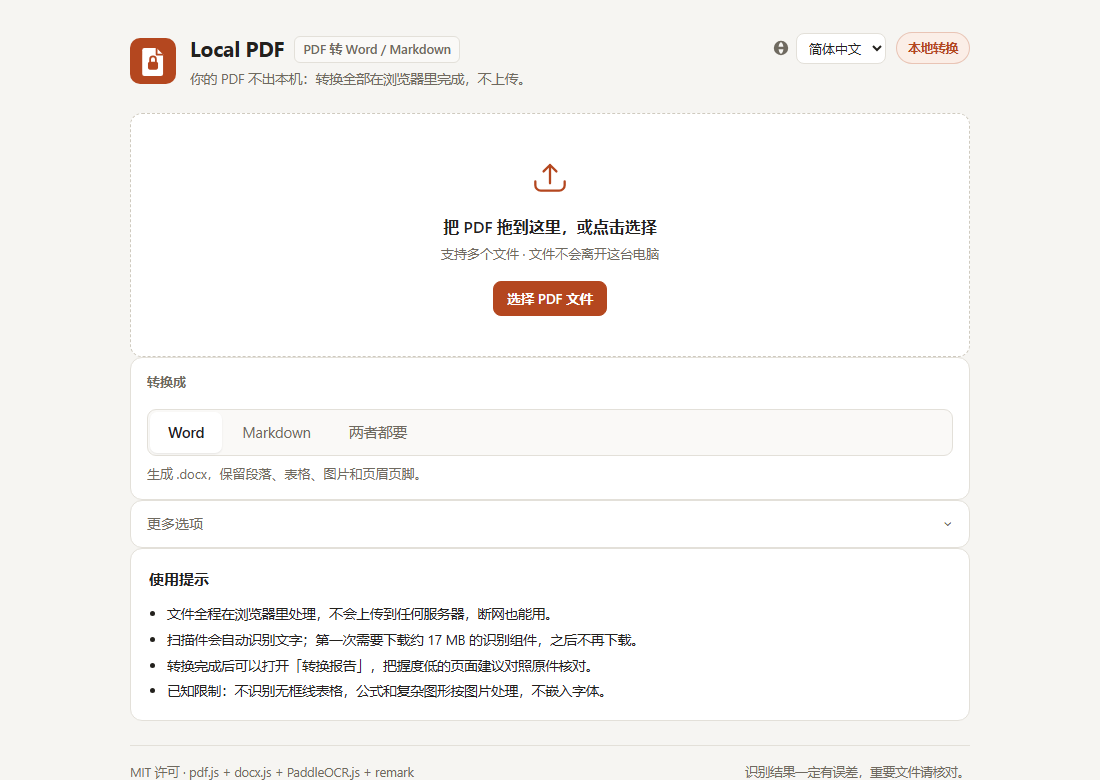
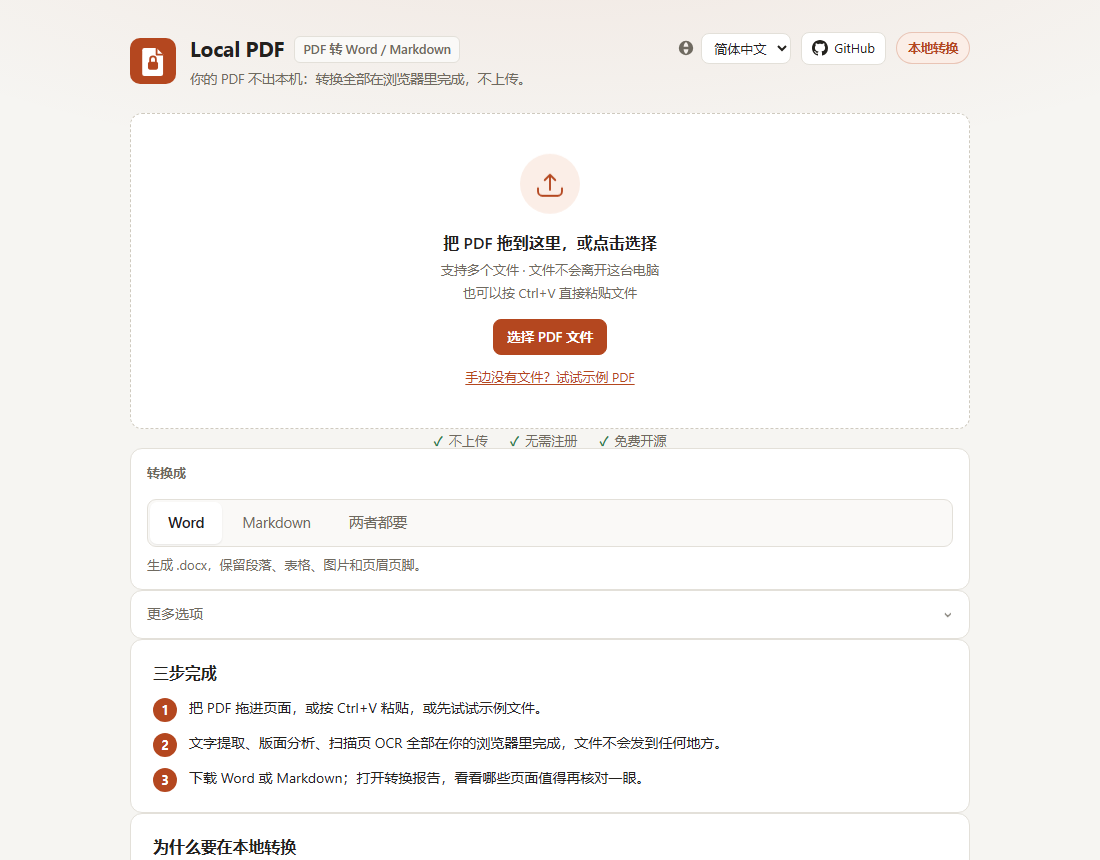
docs: README hero with selling points, social card, changelog for 0.1.0
- README (en / zh-CN): social card, one-line value proposition, badges,
  "Why Local PDF" selling points, updated screenshot.
- docs/social-card.png and public/og.png generated by scripts/make-social-card.py.
- CHANGELOG: everything before the first public release folded into 0.1.0.

diff --git a/scripts/make-social-card.py b/scripts/make-social-card.py
@@ -1,0 +1,79 @@
+# -*- coding: utf-8 -*-
+"""
+生成 1280×640 的社交分享卡：docs/social-card.png（README 顶图、GitHub 社交预览）和 public/og.png（网页 og:image）。
+依赖 PyMuPDF，只在本机生成时用，不是项目依赖。
+
+    python scripts/make-social-card.py
+"""
+import os
+import shutil
+
+import fitz
+
+ROOT = os.path.dirname(os.path.dirname(os.path.abspath(__file__)))
+OUT = os.path.join(ROOT, "docs", "social-card.png")
+OG = os.path.join(ROOT, "public", "og.png")
+
+W, H = 1280, 640
+BG = (0.965, 0.961, 0.949)
+ACCENT = (0.706, 0.278, 0.122)
+INK = (0.137, 0.129, 0.114)
+DIM = (0.435, 0.416, 0.376)
+OK = (0.184, 0.49, 0.31)
+
+
+def main():
+    doc = fitz.open()
+    page = doc.new_page(width=W, height=H)
+    page.draw_rect(fitz.Rect(0, 0, W, H), color=None, fill=BG)
+    # 顶部一抹暖色光晕，和网页背景一致
+    page.draw_rect(fitz.Rect(0, 0, W, 6), color=None, fill=ACCENT)
+
+    # 品牌标：圆角方块 + 白色页面 + 锁
+    x0, y0, s = 96, 150, 150
+    page.draw_rect(fitz.Rect(x0, y0, x0 + s, y0 + s), color=None, fill=ACCENT, radius=0.22)
+    k = s / 64
+    page.draw_polyline(
+        [(x0 + 20 * k, y0 + 14 * k), (x0 + 37 * k, y0 + 14 * k), (x0 + 46 * k, y0 + 23 * k),
+         (x0 + 46 * k, y0 + 50 * k), (x0 + 20 * k, y0 + 50 * k), (x0 + 20 * k, y0 + 14 * k)],
+        color=None, fill=(1, 1, 1), closePath=True,
+    )
+    page.draw_polyline([(x0 + 37 * k, y0 + 14 * k), (x0 + 37 * k, y0 + 23 * k), (x0 + 46 * k, y0 + 23 * k)],
+                       color=ACCENT, width=2.5 * k)
+    page.draw_rect(fitz.Rect(x0 + 25 * k, y0 + 33 * k, x0 + 39 * k, y0 + 44 * k), color=None, fill=ACCENT, radius=0.2)
+    page.draw_circle((x0 + 32 * k, y0 + 29.5 * k), 4 * k, color=ACCENT, width=2.5 * k)
+    page.draw_rect(fitz.Rect(x0 + 27 * k, y0 + 29.5 * k, x0 + 37 * k, y0 + 34 * k), color=None, fill=BG)
+    page.draw_rect(fitz.Rect(x0 + 25 * k, y0 + 33 * k, x0 + 39 * k, y0 + 44 * k), color=None, fill=ACCENT, radius=0.2)
+
+    tx = 292
+    page.insert_text((tx, 214), "Local PDF", fontname="hebo", fontsize=76, color=INK)
+    page.insert_text((tx, 268), "PDF to Word / Markdown, entirely in your browser",
+                     fontname="helv", fontsize=30, color=DIM)
+    # CJK 字体里的拉丁字母是全角宽度，中英混排要分段用不同字体
+    x = tx
+    # CJK 字体的空格是全角，段与段之间用固定间距代替空格
+    for run, font in [("纯前端", "china-s"), ("PDF", "helv"), ("转", "china-s"),
+                      ("Word / Markdown", "helv"), ("，文件不出本机", "china-s")]:
+        page.insert_text((x, 312), run, fontname=font, fontsize=26, color=DIM)
+        x += fitz.get_text_length(run, fontname=font, fontsize=26) + (0 if run.startswith("，") else 7)
+
+    y = 396
+    for i, label in enumerate(["Nothing uploaded", "No sign-up", "Free & open source"]):
+        cx = tx + i * 300
+        page.draw_circle((cx + 12, y - 9), 12, color=None, fill=OK)
+        page.draw_polyline([(cx + 6, y - 9), (cx + 10.5, y - 4.5), (cx + 18.5, y - 14)], color=(1, 1, 1), width=2.6)
+        page.insert_text((cx + 34, y), label, fontname="helv", fontsize=24, color=INK)
+
+    page.draw_line((96, 520), (W - 96, 520), color=(0.85, 0.84, 0.81), width=1)
+    page.insert_text((96, 572), "localpdfconverter.com", fontname="hebo", fontsize=28, color=ACCENT)
+    page.insert_text((W - 96 - 300, 572), "github.com/zkwi/local-pdf", fontname="helv", fontsize=22, color=DIM)
+
+    pix = page.get_pixmap(matrix=fitz.Matrix(1, 1), alpha=False)
+    os.makedirs(os.path.dirname(OUT), exist_ok=True)
+    pix.save(OUT)
+    shutil.copyfile(OUT, OG)
+    print(f"written {OUT} ({pix.width}x{pix.height}, {os.path.getsize(OUT) / 1024:.0f} KB) and public/og.png")
+
+
+if __name__ == "__main__":
+    main()

diff --git a/README.md b/README.md
@@ -1,11 +1,40 @@
-# Local PDF
+<p align="center">
+  <a href="https://localpdfconverter.com"><img src="docs/social-card.png" alt="Local PDF" width="720"></a>
+</p>
 
-**Convert PDF to Word and Markdown entirely in your browser. Private. Free. Open source.**
+<h1 align="center">Local PDF</h1>
 
-Your PDF stays local: parsing, OCR, layout analysis and file generation all run inside the browser.
-There is no upload endpoint in the code base at all.
+<p align="center">
+  <b>Convert PDF to Word and Markdown entirely in your browser.</b><br>
+  Nothing uploaded · No sign-up · Free &amp; open source
+</p>
 
-[简体中文](README.zh-CN.md) · Live: <https://localpdfconverter.com>
+<p align="center">
+  <a href="https://localpdfconverter.com"><b>Try it now →</b></a> ·
+  <a href="README.zh-CN.md">简体中文</a> ·
+  <a href="CHANGELOG.md">Changelog</a>
+</p>
+
+<p align="center">
+  <a href="https://github.com/zkwi/local-pdf/actions/workflows/ci.yml"><img src="https://github.com/zkwi/local-pdf/actions/workflows/ci.yml/badge.svg" alt="CI"></a>
+  <a href="LICENSE"><img src="https://img.shields.io/badge/license-MIT-b4471f.svg" alt="MIT"></a>
+  <img src="https://img.shields.io/badge/runs-100%25%20in%20your%20browser-2f7d4f.svg" alt="Runs 100% in your browser">
+</p>
+
+## Why Local PDF
+
+- **Private by construction.** There is no server to upload to. Parsing, layout analysis, OCR and file
+  generation all run inside the browser; you can confirm it in the network panel. Contracts, statements
+  and papers never leave your computer.
+- **Real Word documents, not pictures of pages.** Paragraphs, headings, lists, ruled tables with merged
+  cells, images, headers/footers and page-number fields are rebuilt so you can keep editing.
+- **Scanned PDFs just work.** Pages without a text layer are recognised with PaddleOCR (PP-OCRv6) in the
+  browser, per page, in Chinese, English, Japanese and 50+ other languages. Tall "long image" PDFs are handled too.
+- **Markdown as well.** The same recognition result can be exported as Markdown, zipped with images and a
+  manifest of coordinates and confidence.
+- **Honest about quality.** Every file comes with a conversion report: confidence per page, element counts,
+  and warnings that tell you which pages deserve a second look.
+- **No install, works offline.** Static site, four interface languages, model files cached after first use.
 
 ![Screenshot](docs/screenshot.png)
 
@@ -76,6 +105,9 @@ Worker serving `dist/` and binds the custom domain; Node 22 comes from `.node-ve
 headers and has the optional COOP/COEP lines for multi-threaded OCR commented out. Any other static host works the
 same way with `dist/` as the output directory.
 
+The site URL is hard-coded in a few SEO places: canonical/hreflang/Open Graph tags in `index.html`, `public/robots.txt`,
+`public/sitemap.xml` and `SITE_URL` in `src/ui/SeoContent.tsx`. Change them when hosting under another domain.
+
 ## Privacy
 
 - No upload code exists. Check the network panel: the only external requests are the optional OCR model and runtime downloads.
@@ -126,6 +158,8 @@ decisions in [docs/adr/](docs/adr/). Roadmap: [docs/ROADMAP.md](docs/ROADMAP.md)
   The PDF fixtures in `tests/fixtures/` are generated by `make_fixtures.py` (needs PyMuPDF locally; not a project dependency).
 - Adding a warning or progress message means adding it to all four tables in `src/i18n/messages/`; the type checker enforces it.
 - CI runs format check, typecheck, tests and build on every push.
+- `public/samples/demo.pdf` (the "try a sample" file) is generated by `scripts/make-demo-pdf.py`, which needs PyMuPDF locally.
+- `docs/social-card.png` / `public/og.png` come from `scripts/make-social-card.py` (also PyMuPDF).
 
 Issues and pull requests are welcome. Please keep changes small and focused; this is a personal project and
 simplicity is a feature.

diff --git a/README.zh-CN.md b/README.zh-CN.md
@@ -1,10 +1,34 @@
-# Local PDF
+<p align="center">
+  <a href="https://localpdfconverter.com"><img src="docs/social-card.png" alt="Local PDF" width="720"></a>
+</p>
 
-**在浏览器里把 PDF 转成 Word 和 Markdown。不上传，免费，开源。**
+<h1 align="center">Local PDF</h1>
 
-你的 PDF 不出本机：解析、OCR、版面分析、文件生成全部在浏览器里完成，代码里根本没有上传接口。
+<p align="center">
+  <b>在浏览器里把 PDF 转成 Word 和 Markdown。</b><br>
+  不上传 · 无需注册 · 免费开源
+</p>
 
-[English](README.md) · 在线版：<https://localpdfconverter.com>
+<p align="center">
+  <a href="https://localpdfconverter.com"><b>在线使用 →</b></a> ·
+  <a href="README.md">English</a> ·
+  <a href="CHANGELOG.md">更新日志</a>
+</p>
+
+<p align="center">
+  <a href="https://github.com/zkwi/local-pdf/actions/workflows/ci.yml"><img src="https://github.com/zkwi/local-pdf/actions/workflows/ci.yml/badge.svg" alt="CI"></a>
+  <a href="LICENSE"><img src="https://img.shields.io/badge/license-MIT-b4471f.svg" alt="MIT"></a>
+  <img src="https://img.shields.io/badge/%E5%85%A8%E7%A8%8B%E5%9C%A8%E6%B5%8F%E8%A7%88%E5%99%A8%E9%87%8C%E8%BF%90%E8%A1%8C-2f7d4f.svg" alt="全程在浏览器里运行">
+</p>
+
+## 为什么选 Local PDF
+
+- **从结构上就不可能泄露。** 没有可以上传的服务器，解析、版面分析、OCR、文件生成全部在浏览器里跑，网络面板里可以自己确认。合同、对账单、论文不会离开你的电脑。
+- **转出来的是真正的 Word，不是页面截图。** 段落、标题、列表、有线表格（含合并单元格）、图片、页眉页脚、页码域都会重建，可以接着编辑。
+- **扫描件直接可用。** 没有文字层的页面用 PaddleOCR（PP-OCRv6）在浏览器里逐页识别，支持中、英、日等 50 多种语言；微信里常见的"长图"PDF 也能处理。
+- **顺便给你 Markdown。** 同一份识别结果可以导出 Markdown，连图片和坐标、置信度清单一起打包。
+- **对质量说实话。** 每份文件附一份转换报告：逐页把握度、元素统计、提示，告诉你哪些页面该再看一眼。
+- **免安装、可离线。** 纯静态站，四种界面语言，模型第一次用后就缓存在本地。
 
 ![界面](docs/screenshot.png)
 
@@ -68,6 +92,9 @@ npm run ocr-models  # 可选：把 OCR 模型下载到 public/ocr-models/ 自托
 产物目录 `dist/`，并绑定自定义域名；Node 22 来自 `.node-version`。`public/_headers` 里有缓存头，
 多线程 OCR 需要的 COOP/COEP 以注释形式放在里面。其他静态托管把 `dist/` 当输出目录即可。
 
+站点地址在几处 SEO 相关文件里写死了：`index.html` 的 canonical / hreflang / Open Graph、`public/robots.txt`、
+`public/sitemap.xml`、`src/ui/SeoContent.tsx` 里的 `SITE_URL`。换域名部署时记得一起改。
+
 ## 隐私
 
 - 没有任何上传代码，可以在网络面板自行确认：对外请求只有可选的 OCR 模型和运行时下载。
@@ -116,6 +143,8 @@ docs/               # 架构、中间模型、ADR
   `tests/fixtures/` 里的 PDF 由 `make_fixtures.py` 生成（本机需要 PyMuPDF，不是项目依赖）。
 - 新增警告或进度文案要同时改 `src/i18n/messages/` 四张表，类型检查会逼你改全。
 - CI 在每次推送时跑格式检查、类型检查、测试和构建。
+- 页面上「试试示例 PDF」用的 `public/samples/demo.pdf` 由 `scripts/make-demo-pdf.py` 生成（本机需要 PyMuPDF）。
+- `docs/social-card.png` 和 `public/og.png` 由 `scripts/make-social-card.py` 生成（同样需要 PyMuPDF）。
 
 欢迎提 Issue 和 PR。改动请尽量小而聚焦——这是个人项目，简单本身就是功能。
 

diff --git a/CHANGELOG.md b/CHANGELOG.md
@@ -5,16 +5,6 @@ Format follows [Keep a Changelog](https://keepachangelog.com/en/1.1.0/); version
 
 ## [Unreleased]
 
-### Added
-
-- `wrangler.jsonc` for Cloudflare Workers Git deployments (assets-only Worker serving `dist/`, custom domain bound).
-
-### Changed
-
-- The ONNX Runtime WASM is no longer shipped with the site; it is loaded from jsDelivr pinned to the exact
-  version the OCR SDK was built with (the 26.5 MiB file exceeds Cloudflare Pages' 25 MiB limit).
-  `npm run ocr-runtime` copies it into `public/ort/` for hosts that allow it; the app prefers the local copy.
-
 ## [0.1.0] — 2026-09-02
 
 First public release.
@@ -57,3 +47,26 @@ First public release.
   dropped; large crops fall back to JPEG when it is clearly smaller than PNG.
 - In automatic OCR mode a page that yields very little text (covers, full-page charts) is kept as an image
   instead of being replaced by a handful of recognised labels.
+
+### Also in this release
+
+- GitHub link in the header and footer, version number and "report an issue" link in the footer.
+- "Try a sample PDF" in the drop zone (`public/samples/demo.pdf`, generated by `scripts/make-demo-pdf.py`)
+  so visitors can see a result without a file of their own; files can also be pasted with Ctrl+V.
+- Trust line under the drop zone (nothing uploaded, no sign-up, open source), Open Graph / theme-color meta,
+  a noscript notice, and a shimmer on the progress bar during long OCR runs.
+- The conversion worker is warmed up while the page is idle, so the first conversion starts without waiting
+  for the 2 MB worker bundle.
+- SEO: a real content section under the tool (how it works, why local, FAQ) with WebApplication and FAQPage
+  JSON-LD in the current language; each interface language has its own URL (`?lang=`) with hreflang
+  alternates, a canonical link and a localised meta description; `robots.txt`, `sitemap.xml`, and a static
+  English copy of the content in `index.html` for crawlers that do not run JavaScript.
+- Visual polish: soft background glow, icon badge in the drop zone, hover/press motion on buttons, entrance
+  animation for job cards, a pop on the download button when a job finishes, accordion FAQ; all motion
+  respects `prefers-reduced-motion`.
+- `wrangler.jsonc` for Cloudflare Workers Git deployments (assets-only Worker serving `dist/`, custom domain bound).
+
+
+- The ONNX Runtime WASM is no longer shipped with the site; it is loaded from jsDelivr pinned to the exact
+  version the OCR SDK was built with (the 26.5 MiB file exceeds Cloudflare Pages' 25 MiB limit).
+  `npm run ocr-runtime` copies it into `public/ort/` for hosts that allow it; the app prefers the local copy.
